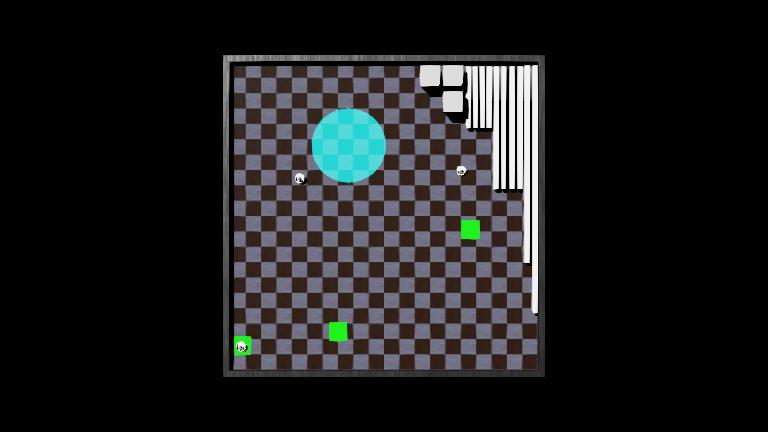
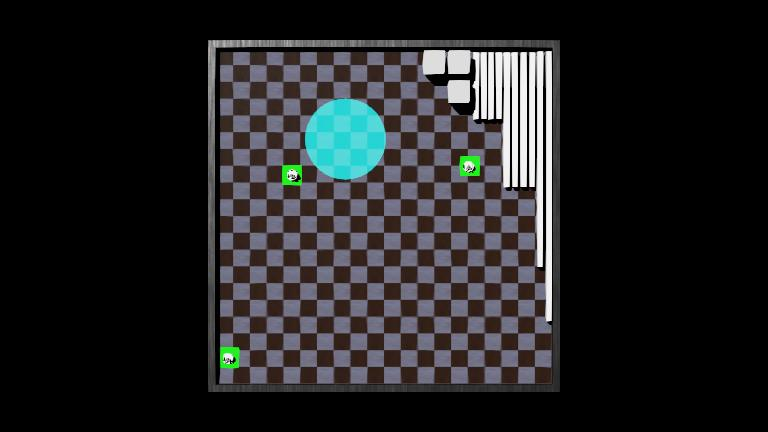
3 agentes en mapa 1

Changed region(s): [[0.25, 0.0903, 0.75, 0.9329]]

diff --git a/Webots/controllers/Supervisor_Mundo/Supervisor_Mundo.py b/Webots/controllers/Supervisor_Mundo/Supervisor_Mundo.py
@@ -42,8 +42,18 @@ cant_paredes = 10
 cant_cajas = 3
 cant_checkpoints = 1
 
-modo = 1 # 0 Obtener datos, 1 colocar paredes, 2 pruebas
-mapa = 1 # 0 no cambia mapa, 1 pruebas de algoritmos, 2 validación
+
+
+modo = 1 # 0 Obtener datos, 1 colocar paredes
+
+mapa = 1 # mapa = 0 --> no cambia mapa 
+         # mapa = 1 --> Mapa 1
+         # mapa = 2 --> Mapa 2
+         # mapa = 3 --> Mapa 3
+         # mapa = 4 --> Mapa 4
+         # mapa = 5 --> Mapa 5
+
+
 # -'-'-'-'-'-'-'-'-'-'-'-'-'-'-'-'- Obtener objetos del mundo -'-'-'-'-'-'-'-'-'-'-'-'-'-'-'-'-
 # Paredes
 for dsnumber in range(cant_paredes):
@@ -64,38 +74,6 @@ for checkpoint_number in range(cant_checkpoints):
     Checkpoints_Orientation_Field.append(Checkpoints[checkpoint_number].getField('rotation'))
     
 
-#Checkpoint_Shape = robot.getFromDef('CP_0_Shape')
-#Checkpoints_appearance.append(Checkpoint_Shape.getField("appearance").getSFNode())
-
-#new_color = [1.0, 0.0, 0.0, 1.0]  # Red color
-#Checkpoints_appearance[0].setSFColor("baseColor",new_color)
-
-#-*-
-
-print(" Prueba para obtener los nodos de cambio de color.")
-"""
-Nodo = robot.getFromDef('PLACA_1.PLACA_1_Shape')
-appearance = Nodo.getField('PBRAppearance')
-color = appearance.getSFColor()
-print(color)
-
-
-for i in range(child_node.getCount()):
-    nodos=child_node.getMFNode(i)
-    if nodos.getTypeName() == 'Shape':
-        print('si entro: i> ',i)
-        color_field= nodos.getField('diffuseColor')
-        #color_field.setSFColor([0.0, 1.0, 0.0])
-    print( nodos.getTypeName() )
-"""
-#appearance = child_node.getField('diffuseColor')
-
-#appearance = child_node.getField('baseColor')
-#baseColor = appearance.getField('baseColor')
-
-#appearance.setSFColor([1,0,0])
-#-*-    
-    
 # -'-'-'-'-'-'-'-'-'-'-'-'-'-'-'-'-'-'-'-'-'-'-'-'-'-'-'-'-'-'-'-'-'-'-'-'-'-'-'-'-'-'-'-'-'-'-
 
 
